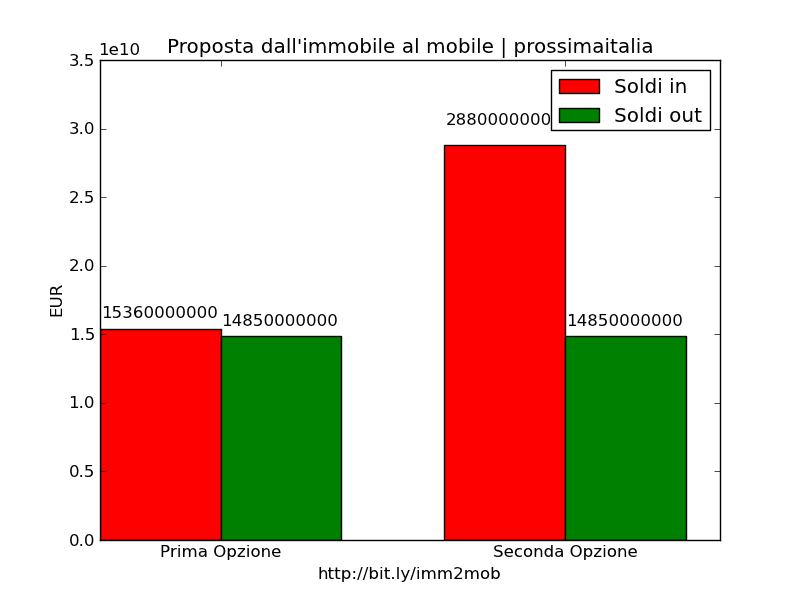
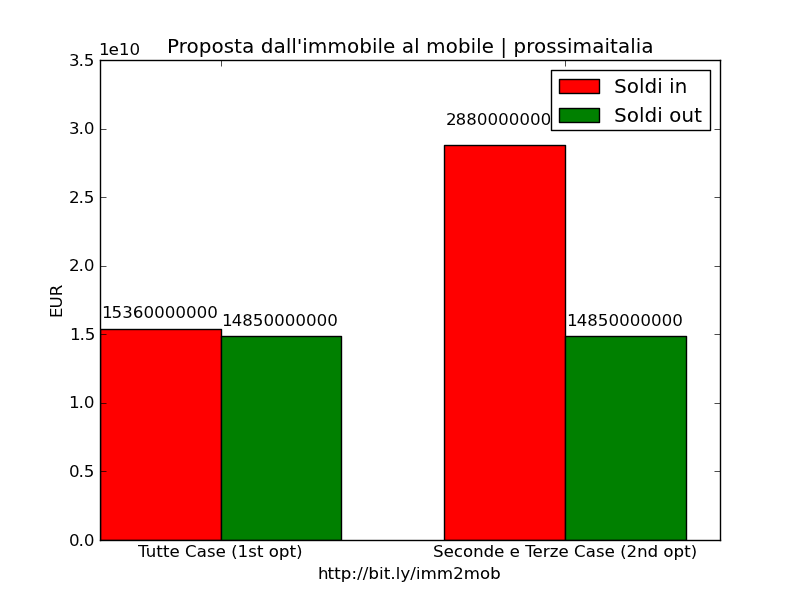
Adding everything

Changed region(s): [[0.5312, 0.9, 0.875, 0.93], [0.1562, 0.9, 0.375, 0.93]]

diff --git a/immobile_to_mobile_graphs.py b/immobile_to_mobile_graphs.py
@@ -50,7 +50,7 @@ def plot_options(money_in_first_option, money_in_second_option,
 	reacts1 = ax.bar(ind, (money_in_first_option, money_in_second_option), width, color='r')
 	reacts2 = ax.bar(ind+width, (money_out, money_out), width, color='g')
 	ax.set_xticks(ind+width)
-	ax.set_xticklabels(('Tutte Case (1st opz.)', 'Seconde e Terze Case [2nd opz.]'))
+	ax.set_xticklabels(('Tutte Case (1st opt)', 'Seconde e Terze Case (2nd opt)'))
 	autolabel(reacts1, ax)
 	autolabel(reacts2, ax)
 	ax.legend((reacts1[0], reacts2[1]), ('Soldi in', 'Soldi out'), loc=0)
@@ -80,8 +80,8 @@ def plot_per_individual(contr_first, contr_second, received, year=12):
 	autolabel(reacts1, ax)
 	autolabel(reacts2, ax)
 	autolabel(reacts3, ax)
-	ax.legend((reacts1[0], reacts2[0], reacts3[0]), ('Contributo Tutte Case', 
-													 'Contributo Seconde e Terze Case',
+	ax.legend((reacts1[0], reacts2[0], reacts3[0]), ('Contributo Tutte Case (1st opt)', 
+													 'Contributo Seconde e Terze Case (2st opt)',
 													 'Assegno'), loc=0)
 	ax.set_title("Proposta dall'immobile al mobile | prossimaitalia")
 	ax.set_xlabel('http://bit.ly/imm2mob')
